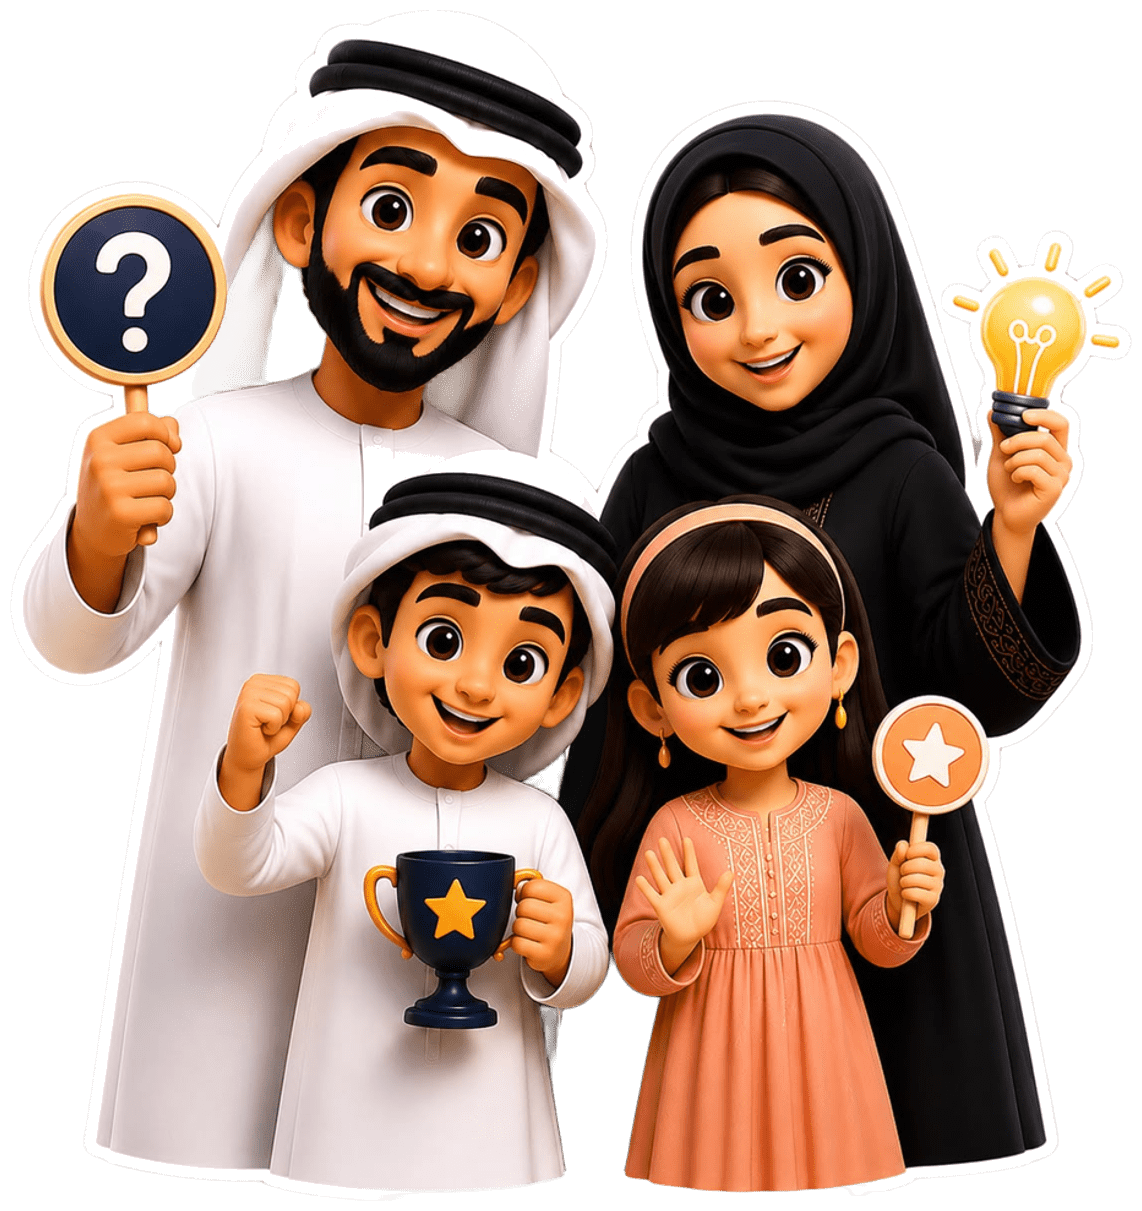
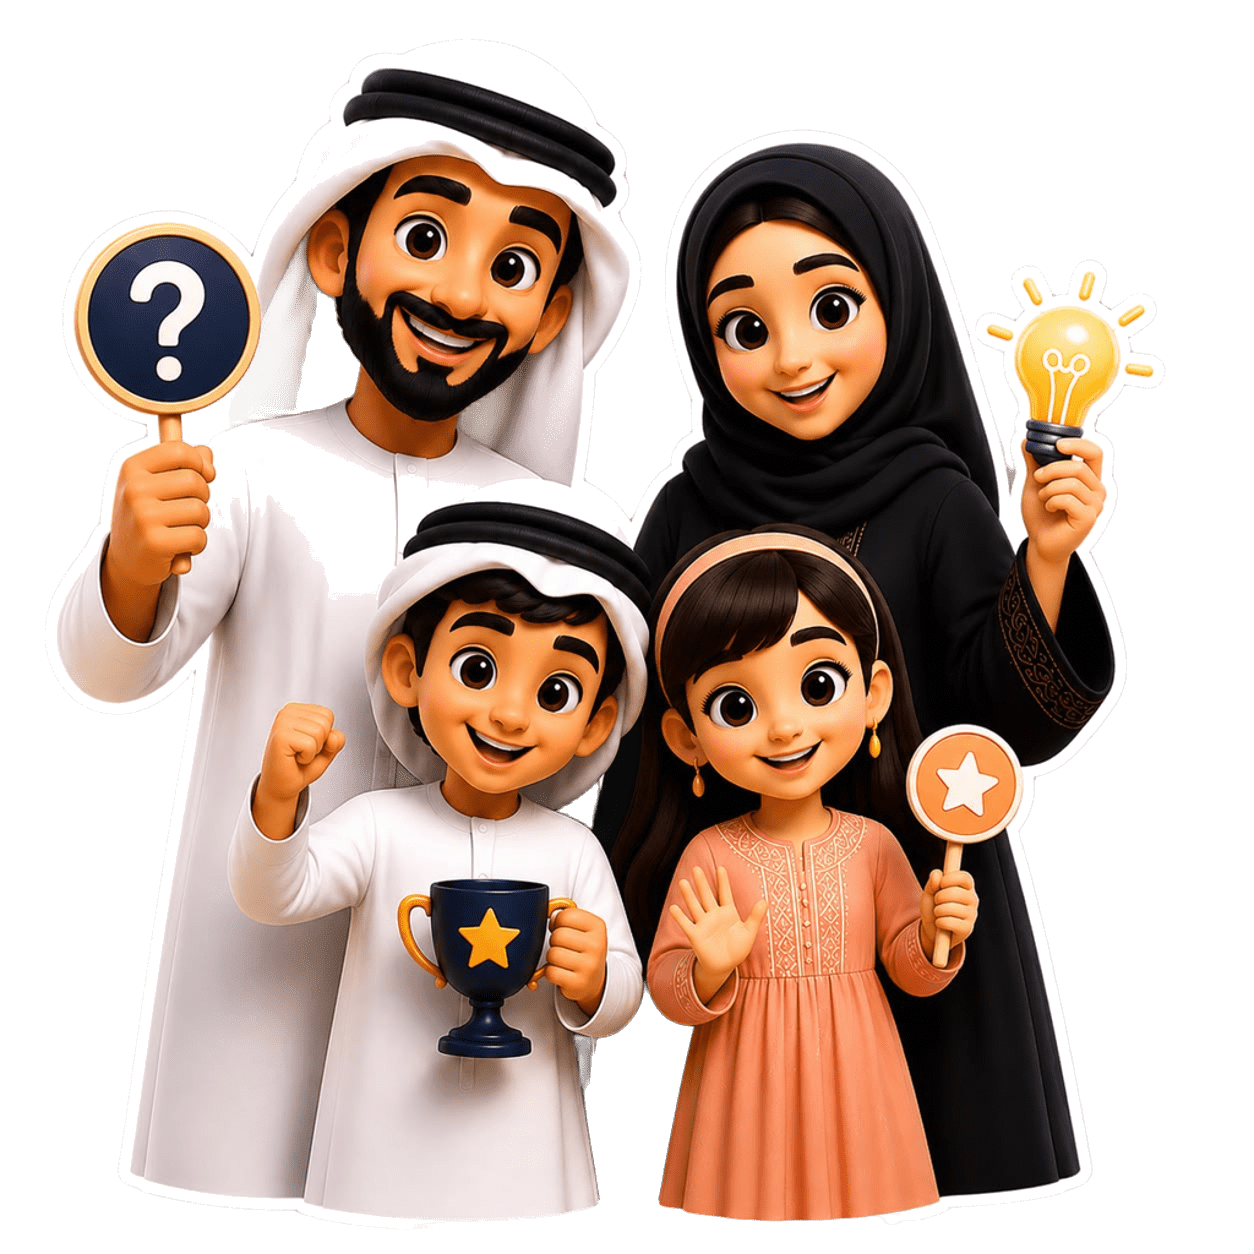
feat: add home page layout with optimized image loading and custom styling components

diff --git a/resources/css/home-page.css b/resources/css/home-page.css
@@ -108,9 +108,11 @@
   object-fit: cover;
   background: #1E3A5F;
 }
-.hp-hero__art { display: flex; justify-content: center; align-items: center; }
+.hp-hero__art { display: flex; justify-content: center; align-items: center; background: transparent; }
 .hp-hero__art img, .hero-main-img {
   width: 100%; max-width: 480px; height: auto; object-fit: contain;
+  background: transparent !important;
+  border-radius: 0 !important;
   filter: drop-shadow(0 24px 38px rgba(0,0,0,0.18));
   transition: transform 0.3s ease, filter 0.3s ease;
 }
@@ -317,7 +319,7 @@ body.dark .hp-hero__art img, body.dark .hero-main-img {
 /* ============ FAQ ============ */
 .hp-faq { display: grid; grid-template-columns: 1fr 1.6fr; gap: 48px; align-items: start; }
 .hp-faq__art { position: sticky; top: 110px; text-align: center; display: flex; flex-direction: column; align-items: center; gap: 14px; }
-.hp-faq__art img { width: 190px; object-fit: contain; animation: faqFloat 5s ease-in-out infinite; }
+.hp-faq__art img { width: 190px; object-fit: contain; background: transparent !important; animation: faqFloat 5s ease-in-out infinite; }
 @keyframes faqFloat {
   0%,100% { transform: translateY(0); }
   50%      { transform: translateY(-10px); }
@@ -350,7 +352,7 @@ body.dark .hp-hero__art img, body.dark .hero-main-img {
 .hp-cta__text { color: #fff; }
 .hp-cta__text h2 { font-family: "Cairo", sans-serif; font-size: clamp(22px,3.2vw,36px); font-weight: 900; margin: 0 0 10px; }
 .hp-cta__text p { font-size: 15px; opacity: .92; margin: 0 0 22px; }
-.hp-cta__art img { width: 210px; object-fit: contain; filter: drop-shadow(0 20px 30px rgba(0,0,0,0.2)); animation: ctaFloat 5s ease-in-out infinite; }
+.hp-cta__art img { width: 210px; object-fit: contain; background: transparent !important; filter: drop-shadow(0 20px 30px rgba(0,0,0,0.2)); animation: ctaFloat 5s ease-in-out infinite; }
 @keyframes ctaFloat {
   0%,100% { transform: translateY(0) rotate(-4deg); }
   50%      { transform: translateY(-14px) rotate(4deg); }
@@ -418,7 +420,7 @@ body.dark .hp-faq__item p { color: #8892B0; }
 @media (max-width: 920px) {
   .hp-hero__inner { grid-template-columns: 1fr; text-align: center; gap: 24px; }
   .hp-hero__art { display: flex; justify-content: center; margin-top: 12px; }
-  .hp-hero__art img { max-width: min(340px, 86vw); border-radius: 20px; }
+  .hp-hero__art img { max-width: min(340px, 86vw); border-radius: 0; background: transparent !important; }
   .hp-hero__title { font-size: clamp(24px, 5.5vw, 36px); }
   .hp-hero__sub { margin: 0 auto; font-size: 14px; max-width: 90%; line-height: 1.6; }
   .hp-stats__grid { grid-template-columns: repeat(2,1fr); }

diff --git a/resources/css/image-load.css b/resources/css/image-load.css
@@ -1,13 +1,17 @@
-/* Hide images until fully decoded — prevents progressive band-by-band paint */
+/* Hide images until fully decoded — prevents progressive band-by-band paint.
+   Never paint a solid background here: transparent PNGs/WebPs would show it
+   as a white/gray box on light and dark themes. */
 img.sw-img {
   opacity: 0;
   transition: opacity .18s ease;
-  background: #e8edf7;
+  background: transparent;
 }
 img.sw-img.is-ready {
   opacity: 1;
+  background: transparent;
 }
 /* Keep layout for broken/missing */
 img.sw-img.is-error {
   opacity: 1;
+  background: transparent;
 }

diff --git a/resources/views/site/home.blade.php b/resources/views/site/home.blade.php
@@ -37,6 +37,8 @@
       max-width: 480px;
       height: auto;
       object-fit: contain;
+      background: transparent !important;
+      border-radius: 0 !important;
       filter: drop-shadow(0 24px 38px rgba(0,0,0,0.18));
       transition: transform 0.3s ease, filter 0.3s ease;
       animation: heroFloat 4s ease-in-out infinite alternate;
@@ -95,12 +97,16 @@
       </div>
 
       <div class="hp-hero__art">
-        <img
-          src="{{ asset('images/mainPhoto.png') }}"
-          alt="منصة ألعاب سوالف"
-          width="800" height="600"
-          decoding="async" fetchpriority="high"
-          class="hero-main-img">
+        <picture>
+          <source srcset="{{ asset('images/mainPhoto.webp') }}" type="image/webp">
+          <img
+            src="{{ asset('images/mainPhoto.png') }}"
+            alt="منصة ألعاب سوالف"
+            width="800" height="600"
+            decoding="async" fetchpriority="high"
+            class="hero-main-img"
+            data-no-sw-img>
+        </picture>
       </div>
     </div>
   </section>
@@ -313,10 +319,13 @@
   <section class="hp-section hp-section--soft" id="faq">
     <div class="container hp-faq">
       <div class="hp-faq__art">
-        <img
-          src="{{ asset('images/faq-bubbles.webp') }}"
-          onerror="this.onerror=null;this.src='{{ asset('images/faq-bubbles.png') }}'"
-          alt="الأسئلة الشائعة" loading="lazy" decoding="async" width="640" height="480">
+        <picture>
+          <source srcset="{{ asset('images/faq-bubbles.webp') }}" type="image/webp">
+          <img
+            src="{{ asset('images/faq-bubbles.png') }}"
+            alt="الأسئلة الشائعة" loading="lazy" decoding="async" width="640" height="480"
+            data-no-sw-img>
+        </picture>
         <h2>الأسئلة الشائعة</h2>
         <p>كل ما تريد معرفته عن سوالف في مكان واحد</p>
       </div>
@@ -352,10 +361,13 @@
         <a href="{{ route('categories.index') }}" class="btn btn--white btn--lg">🚀 ابدأ مجانًا</a>
       </div>
       <div class="hp-cta__art">
-        <img
-          src="{{ asset('images/game-controller.webp') }}"
-          onerror="this.onerror=null;this.src='{{ asset('images/game-controller.png') }}'"
-          alt="ابدأ التحدي" loading="lazy" decoding="async" width="480" height="360">
+        <picture>
+          <source srcset="{{ asset('images/game-controller.webp') }}" type="image/webp">
+          <img
+            src="{{ asset('images/game-controller.png') }}"
+            alt="ابدأ التحدي" loading="lazy" decoding="async" width="480" height="360"
+            data-no-sw-img>
+        </picture>
       </div>
     </div>
   </section>

diff --git a/app/Console/Commands/OptimizeSiteImages.php b/app/Console/Commands/OptimizeSiteImages.php
@@ -44,14 +44,10 @@ class OptimizeSiteImages extends Command
 
     private function optimizeSiteAssets(): int
     {
+        // Keep homepage art as transparent PNG/WebP — never bake a white JPEG background.
         $map = [
             'logo.png' => ['logo-nav.jpg', 220, 82],
             'logo.jpg' => ['logo-nav.jpg', 220, 82],
-            'hero-character-custom.png' => ['hero-light.jpg', 720, 78],
-            'hero-character-dark.png' => ['hero-dark.jpg', 720, 78],
-            'faq-bubbles.png' => ['faq-bubbles.jpg', 640, 78],
-            'game-controller.png' => ['game-controller.jpg', 480, 78],
-            'gift-box.png' => ['gift-box.jpg', 480, 78],
         ];
 
         $dir = public_path('images');
